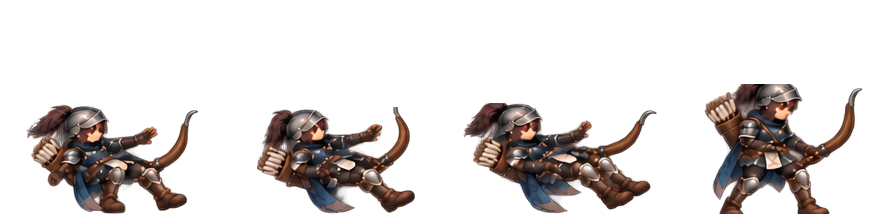
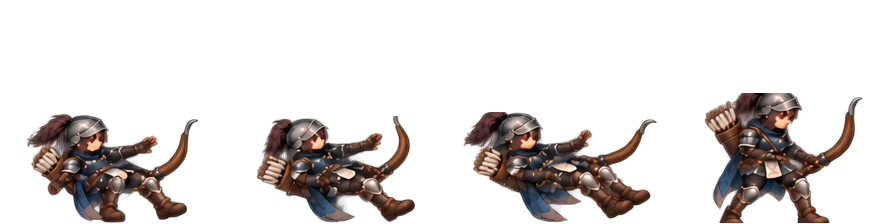
fix: align HERO_003 sprites and UI art

diff --git a/src/components/heroes/HeroesPanel.tsx b/src/components/heroes/HeroesPanel.tsx
@@ -37,7 +37,7 @@ export function HeroesPanel(p:Props){
    </div></>:<div className="hero-management upgrade-only">
     {!showDetail&&<div className="hero-roster"><div className="deck-builder-title">영웅을 선택해 상세 정보 보기</div><div className="deck-builder-grid">{p.heroes.map(h=>{const own=p.ownedHeroes.includes(h.id);return <button key={h.id} className={`deck-builder-card ${!own?"disabled":""} ${selected.id===h.id?"focused":""}`} onClick={()=>{p.setSelectedHeroId(h.id);setShowDetail(true)}}><span><HeroSprite hero={h}/></span><b>{h.name}</b><small>{own?`${p.getGrade(h.id).name} · Lv.${p.getLevel(h.id)} · 영혼 +${p.heroSouls[h.id]??0}`:"🔒 미보유"}</small></button>})}</div></div>}
     {showDetail&&<>
-    <div className={`hero-detail ${!owned?"locked":""}`}><div className="hero-detail-head"><span><HeroSprite hero={selected} variant="portrait"/></span><div><small>{grade.name} · {selected.role} · {HERO_CONTENT_STATUS[selected.id]}</small><h2>{selected.name}</h2><b>Lv.{level}</b></div></div>
+    <div className={`hero-detail ${!owned?"locked":""}`}><div className="hero-detail-head"><span className={selected.spriteConfig?.ui?.portrait?"hero-detail-portrait":""}><HeroSprite hero={selected} variant="portrait"/></span><div><small>{grade.name} · {selected.role} · {HERO_CONTENT_STATUS[selected.id]}</small><h2>{selected.name}</h2><b>Lv.{level}</b></div></div>
     {owned&&<div className="hero-profile-strip"><span>{ELEMENT_LABEL[selected.element]}</span><span>{selected.rangeType==="ranged"?"원거리":"근거리"} · 사거리 {selected.range}</span><span>이동 {selected.speed}</span><span>출전 {selected.cost}G</span><span>쿨 {selected.cooldown}s</span></div>}
     {owned?<><div className="hero-power-card"><small>COMBAT POWER</small><b>{power.toLocaleString()}</b>{level<10&&<span>다음 Lv.{level+1} → {nextPower.toLocaleString()}</span>}</div>
     <div className="hero-trait-card"><div>{selected.spriteConfig?.ui?.skill1&&<span className="hero-skill-icon"><HeroSprite hero={selected} variant="skill1"/></span>}<small>COMBAT TRAIT</small><b>{selected.abilityIds?.length?"Piercing Arrow":p.getTrait(selected).name}</b></div><p>{p.getTrait(selected).text}</p><span>{selected.attackType==="splash"?"광역":"단일"} · 공격주기 {(selected.attackInterval*soul.speed).toFixed(2)}초</span></div>

diff --git a/src/components/shared/HeroSprite.tsx b/src/components/shared/HeroSprite.tsx
@@ -19,7 +19,7 @@ export function HeroSprite({ hero, state = "idle", deathProgress = 0, attackDura
   if (configuredAnimation?.asset) {
     const duration = configuredAnimation.fps > 0 ? configuredAnimation.frameCount / configuredAnimation.fps / gameSpeed : 0;
     return <span key={`${state}-${state === "attack" || state === "skill1" ? attackSequence : 0}`} className={`unit-animated-sprite state-${state}`} role="img" aria-label={hero.name}
-      style={{ "--sprite-image": `url("${configuredAnimation.asset}")`, "--frame-count": configuredAnimation.frameCount, "--last-frame": configuredAnimation.frameCount - 1, "--sprite-scale": configured!.scale, "--animation-duration": `${duration}s`, "--attack-duration": `${attackDuration ?? duration}s`, "--pivot-x": configured!.pivotX, "--pivot-y": configured!.pivotY, animationIterationCount: configuredAnimation.loop ? "infinite" : 1, animationFillMode: "forwards" } as CSSProperties}
+      style={{ "--sprite-image": `url("${configuredAnimation.asset}")`, "--frame-count": configuredAnimation.frameCount, "--last-frame": configuredAnimation.frameCount - 1, "--sprite-scale": configured!.scale, "--animation-duration": `${duration}s`, "--attack-duration": `${attackDuration ?? duration}s`, "--pivot-x": configured!.pivotX, "--pivot-y": configured!.pivotY, alignSelf: configured!.pivotY === 1 ? "end" : "center", justifySelf: "center", animationIterationCount: configuredAnimation.loop ? "infinite" : 1, animationFillMode: "forwards" } as CSSProperties}
       data-animated={configuredAnimation.frameCount > 1 ? "true" : undefined} data-loop={configuredAnimation.loop ? "true" : "false"} />;
   }
   const animatedSprite = UNIT_ANIMATED_SPRITES[hero.id];

diff --git a/src/game/types.ts b/src/game/types.ts
@@ -7,7 +7,7 @@ export type TargetPriority = "frontline" | "ranged-lowest-hp";
 export type UnitRarity = "COMMON" | "RARE" | "HEROIC" | "LEGENDARY" | "MYTHIC" | "TRANSCENDENT";
 export type UnitRace = "HUMAN" | "UNDEAD" | "DRAGON" | "GIANT" | "MACHINE" | "SPIRIT" | "ANGEL" | "DEMON" | "BEAST" | "ABERRATION";
 export type UnitCombatRole = "MELEE_DPS" | "RANGED_DPS" | "TANK" | "SUPPORT" | "HEALER" | "BUFFER" | "DEBUFFER" | "CONTROLLER";
-export type SpriteAnimationConfig = { asset: string; frameCount: number; fps: number; loop: boolean; impactFrame?: number; projectileSpawnFrame?: number; skillEventFrame?: number };
+export type SpriteAnimationConfig = { asset: string; frameCount: number; fps: number; loop: boolean; syncToAttackInterval?: boolean; impactFrame?: number; projectileSpawnFrame?: number; skillEventFrame?: number };
 export type ProjectileVisualConfig = { asset: string; trailAsset?: string; releaseAsset?: string; pierceAsset?: string; impactAsset?: string };
 export type SpriteConfig = {
   frameWidth: number; frameHeight: number; scale: number; pivotX: number; pivotY: number; facing?: "LEFT" | "RIGHT";

diff --git a/src/game/visuals/sprites.ts b/src/game/visuals/sprites.ts
@@ -91,11 +91,11 @@ export const UNIT_SPRITE_CONFIGS: Record<string, SpriteConfig> = {
     },
   },
   HERO_003: {
-    frameWidth: 224, frameHeight: 224, scale: 1.15, pivotX: 0.5, pivotY: 1, facing: "RIGHT",
+    frameWidth: 224, frameHeight: 224, scale: 1.3, pivotX: 0.5, pivotY: 1, facing: "RIGHT",
     animations: {
       idle: { asset: hero003Idle, frameCount: 4, fps: 6, loop: true },
       move: { asset: hero003Move, frameCount: 6, fps: 10, loop: true },
-      attack: { asset: hero003Attack, frameCount: 6, fps: 12, loop: false, impactFrame: 5, projectileSpawnFrame: 5 },
+      attack: { asset: hero003Attack, frameCount: 6, fps: 12, loop: false, syncToAttackInterval: true, impactFrame: 5, projectileSpawnFrame: 5 },
       skill1: { asset: hero003Skill1, frameCount: 8, fps: 12, loop: false, impactFrame: 6, projectileSpawnFrame: 6, skillEventFrame: 6 },
       hit: { asset: hero003Hit, frameCount: 2, fps: 10, loop: false },
       knockback: { asset: hero003Knockback, frameCount: 4, fps: 10, loop: false },

diff --git a/src/components/battle/BattleUnit.tsx b/src/components/battle/BattleUnit.tsx
@@ -9,7 +9,7 @@ export function BattleUnit({ unit, dyingProgress, gameSpeed = 1 }: { unit: Unit;
   const configuredAttack = UNIT_SPRITE_CONFIGS[unit.id]?.animations.attack;
   const configuredSkill = UNIT_SPRITE_CONFIGS[unit.id]?.animations.skill1;
   const configuredVisuals = UNIT_SPRITE_CONFIGS[unit.id]?.projectiles;
-  const configuredAttackDuration = configuredAttack ? configuredAttack.frameCount / configuredAttack.fps : undefined;
+  const configuredAttackDuration = configuredAttack ? configuredAttack.syncToAttackInterval ? unit.attackInterval : configuredAttack.frameCount / configuredAttack.fps : undefined;
   const activeAttackDuration = Math.min(unit.attackInterval, configuredAttackDuration ?? UNIT_ANIMATED_SPRITES[unit.id]?.attackDuration ?? unit.attackInterval);
   const attackAnimationActive = UNIT_ANIMATED_SPRITES[unit.id] || configuredAttack
     ? (unit.attackAnimationTimer ?? 0) > 0

diff --git a/src/styles/features.css b/src/styles/features.css
@@ -100,6 +100,8 @@
 .hero-detail.locked{opacity:.65}
 .hero-detail-head{display:flex;align-items:center;gap:12px;padding-bottom:12px;border-bottom:1px solid #294151}
 .hero-detail-head>span{font-size:58px}
+.hero-detail-head>span.hero-detail-portrait{width:76px;height:76px;flex:0 0 76px;border-radius:10px;overflow:hidden;background:#0a1620}
+.hero-detail-head>span.hero-detail-portrait .hero-ui-portrait{object-fit:cover}
 .hero-detail-head div{display:flex;flex-direction:column;gap:3px;text-align:left}
 .hero-detail-head small{color:#7894a5;font-size:8px}
 .hero-detail-head h2{margin:0;color:#f2f8fb;font-size:17px}
